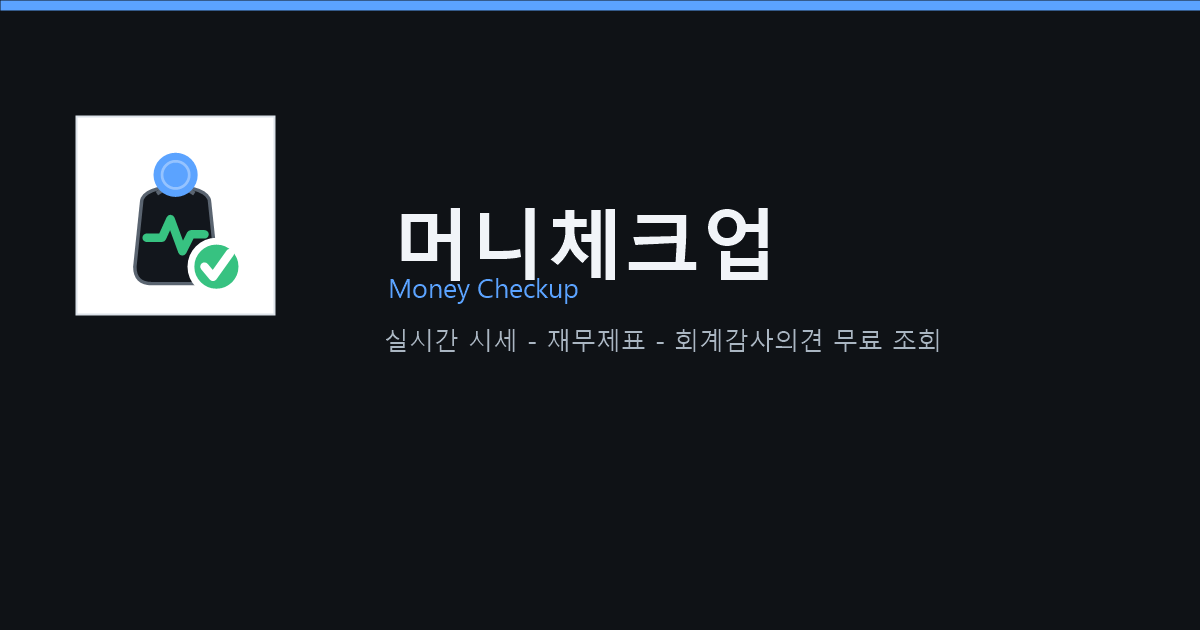
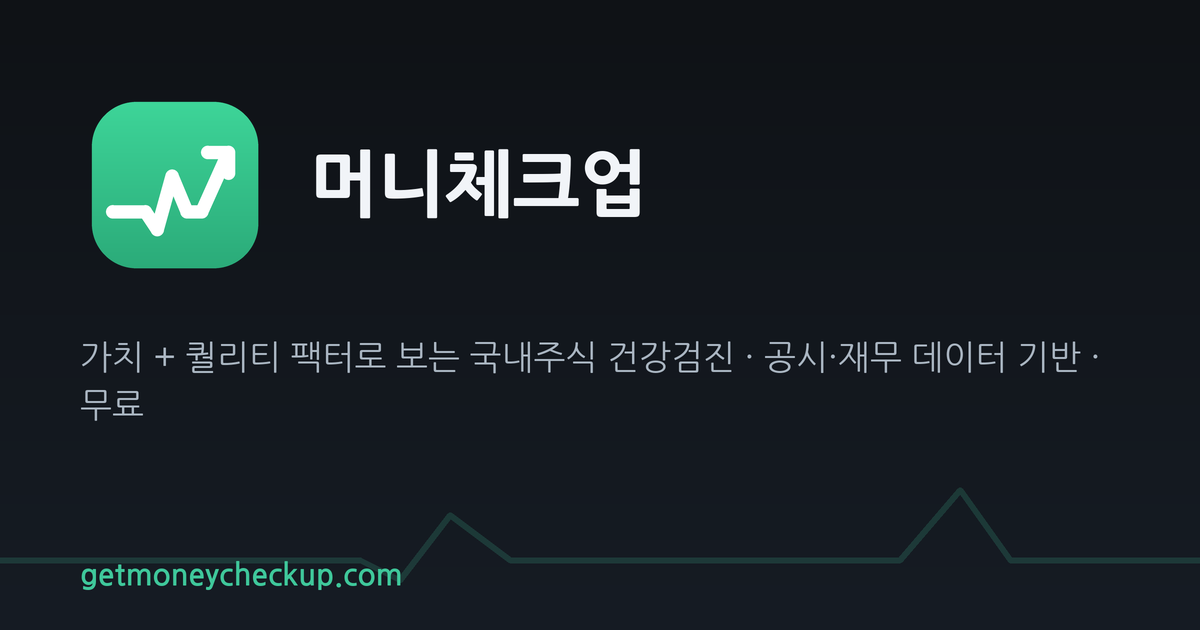
design: og-image 새 브랜드로 재제작 + JSON-LD 로고를 정사각 마크로
새 마크 + '머니체크업' + 태그라인의 다크 카드로 og-image 교체(카톡/트위터 공유
미리보기). JSON-LD Organization.logo를 og-image(와이드) 대신 icon-512(정사각)로 수정.

diff --git a/static/index.html b/static/index.html
@@ -37,7 +37,7 @@
 {"@context":"https://schema.org","@type":"WebSite","name":"머니체크업","alternateName":"Money Checkup","url":"https://getmoneycheckup.com/"}
 </script>
 <script type="application/ld+json">
-{"@context":"https://schema.org","@type":"Organization","name":"머니체크업","url":"https://getmoneycheckup.com/","logo":"https://getmoneycheckup.com/static/og-image.png"}
+{"@context":"https://schema.org","@type":"Organization","name":"머니체크업","url":"https://getmoneycheckup.com/","logo":"https://getmoneycheckup.com/static/icon-512.png"}
 </script>
 <link rel="preload" as="style" crossorigin
   href="https://cdn.jsdelivr.net/gh/orioncactus/pretendard@v1.3.9/dist/web/static/pretendard.css"
